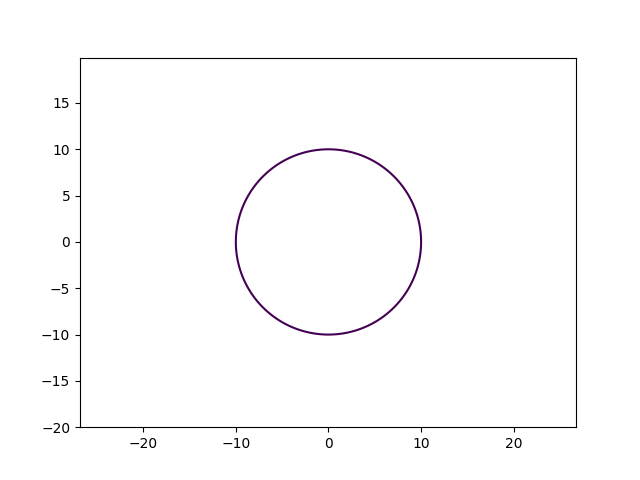
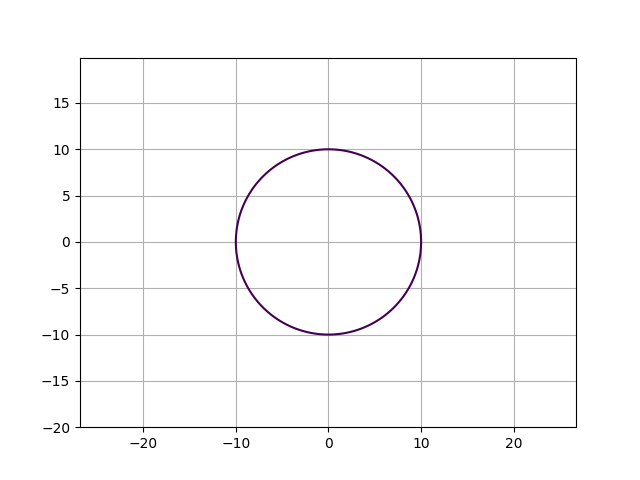
zxc

diff --git a/tusk4.py b/tusk4.py
@@ -1,7 +1,7 @@
 import matplotlib.pyplot as plt
 import numpy as np
 import math
-def polar(b = 0.1):
+def polar(b = float(input())):
     t = np.arange(0, math.pi * 8, 0.01)
     x = np.zeros(len(t))
     y = np.zeros(len(t))
@@ -12,6 +12,7 @@ def polar(b = 0.1):
         y0 = math.sin(t[i]) * r
         y[i] = y0
     plt.plot(x, y)
+    plt.grid()
     plt.savefig('fig_11.png')
 if __name__ == '__main__':
 	polar()

diff --git a/tusk2.py b/tusk2.py
@@ -1,9 +1,10 @@
 import matplotlib.pyplot as plt
 import numpy as np
-def giperbola_plotter(a = int(input()), N = float(input()), k = int(input())):
+def giperbola_plotter(a = int(input()), N = 0.5, k = 1):
     x = np.arange(-a, a, N)
     y = k / x
     plt.plot(x, y)
+    plt.grid()
     plt.savefig('fig_9.png')
 if __name__ == '__main__':
 	giperbola_plotter()

diff --git a/tusk3.py b/tusk3.py
@@ -8,6 +8,7 @@ def elips_plotter(a = float(input()), b = float(input()), r = float(input())):
     fxy = (X ** 2) / (a ** 2) + (Y ** 2) / (b ** 2) - 1
 
     plt.contour(X, Y, fxy, levels=[0])
+    plt.grid()
     plt.savefig('fig_10.png')
 
 if __name__ == '__main__':

diff --git a/urr.py b/urr.py
@@ -9,8 +9,8 @@ def parabola_plotter(a=1, b=1, c=0):
     plt.ylabel('coord - y')
     plt.title('Parabola')
     plt.legend()
-    
+    plt.grid()
     plt.savefig('fig_3.png')
-	
+    
 if __name__ == '__main__':
 	parabola_plotter()

diff --git a/urr2.py b/urr2.py
@@ -12,6 +12,7 @@ def circle_plotter(radius=10):
 
     plt.contour(X, Y, fxy, levels=[0])
     plt.axis('equal')
+    plt.grid()
     plt.savefig('fig_4.png')
     
 if __name__ == '__main__':
